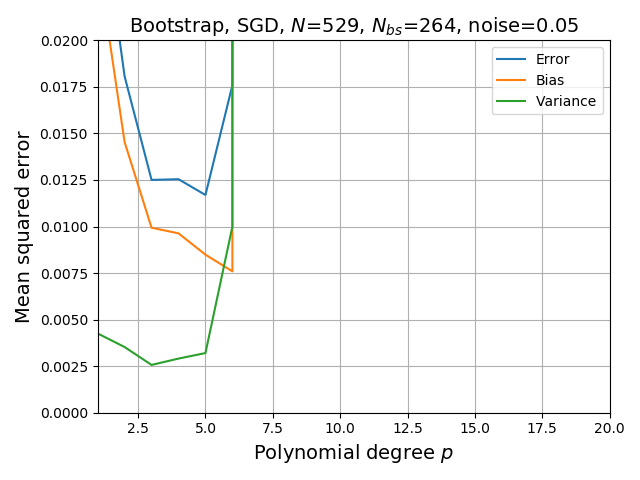
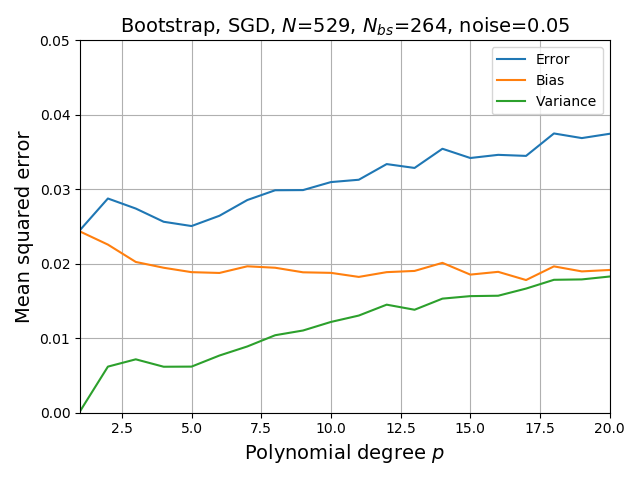
fixed learning rate somewhat

diff --git a/src/sgd.py b/src/sgd.py
@@ -1,11 +1,11 @@
 import numpy as np
 from numba import njit
-#from numba.experimental import jitclass
 import functions as fun
+
 
 #@fun.timeit
 @njit
-def gradient_descent_linreg(X, y, n_epochs, N_mb, m, beta, etas):#, seed):
+def gradient_descent_linreg(X, y, n_epochs, N_mb, m, theta, etas, lmb=0.0):#, seed):
     """
     An attempt to speed up the gradient descent using jit, as my first implementation is ~4 (or more depending on size)
     orders of magnitude slower than SGDRegressor.
@@ -20,15 +20,17 @@ def gradient_descent_linreg(X, y, n_epochs, N_mb, m, beta, etas):#, seed):
             xi = X[i_rand*m:i_rand*m + m]
             yi = y[i_rand*m:i_rand*m + m]
 
-            gradients = 2 * xi.T @ ((xi @ beta) - yi)
+#            gradients = 2 * xi.T @ ((xi @ theta) - yi)
+            gradients = 2 * (xi.T @ ((xi @ theta) - yi) + lmb*theta)  # Ridge, lmb=0 yields OLS
+
             eta = etas[j]
-            beta = beta - eta * gradients
+            theta = theta - eta * gradients
             j += 1
+        X, y = fun.shuffle_data(X, y)  # or put in GD-func?
 
-    return beta
+    return theta
 
 
-#@jitclass
 class LinRegSGD:
     def __init__(self, n_epochs, n_minibatch, regularization=None, eta0=0.1, learning_rate='constant'):
         self._n_epochs = n_epochs
@@ -38,11 +40,11 @@ class LinRegSGD:
         self._learning_rate = learning_rate
 
         self._lmb = None
-        self._t0 = 10#None
-        self._t1 = 0.1#None
+        self._t0 = 1.0#None
+        self._t1 = 10.0#None
         self._seed = None
 
-        self.beta = None
+        self.theta = None
 
     def fit(self, X, y):
         """
@@ -54,7 +56,7 @@ class LinRegSGD:
         N_mb = self._n_minibatch
         m = int(N/N_mb)  # number of elements in each minibatch
 
-        beta = np.random.randn(p)#, 1)  # beta here is (p, 1), while in OLS its (p,) WHYYYYYYYYYYYYYYYYYYYYY
+        theta = np.random.randn(p)#, 1)  # beta here is (p, 1), while in OLS its (p,) WHYYYYYYYYYYYYYYYYYYYYY
         # TODO: FIND UOT WHY
 
         # Try to speeeeeeeed up with jit
@@ -70,7 +72,7 @@ class LinRegSGD:
             etas = etas.ravel()
 
         # Gradient descent
-        beta = gradient_descent_linreg(X, y, self._n_epochs, N_mb, m, beta, etas)
+        theta = gradient_descent_linreg(X, y, self._n_epochs, N_mb, m, theta, etas)
 
         '''
         for epoch in range(self._n_epochs):
@@ -85,12 +87,10 @@ class LinRegSGD:
 
                 beta = beta - eta * gradients
         '''
-        self.beta = beta
+        self.theta = theta
 
     def predict(self, X):
-#        print(X.shape)
-        ytilde = X @ self.beta
-#        print(ytilde.shape, self.beta.shape)
+        ytilde = X @ self.theta
         return ytilde
 
     def set_lambda(self, lmb):

diff --git a/src/task_a.py b/src/task_a.py
@@ -18,7 +18,7 @@ fig_path = '../figures/'
 data_path = '../datafiles/'
 write_path = '../datafiles/'
 
-p = 20  # degree of polynomial for the task
+p = 30  # degree of polynomial for the task
 scale = [True, False]  # first index is whether to subtract mean, second is to scale by std
 
 test_size = 0.2
@@ -32,16 +32,16 @@ reg_str = 'SGD_SKL'
 
 # Creating data set for the Franke function tasks
 seed = 4155
-n_franke = 32  # 529 points
+n_franke = 23  # 529 points
 N = n_franke**2  # Total number of samples n*2
 noise = 0.05  # noise level
 
 # Bootstrap and CV variables
-N_bootstraps = 1#int(N / 2)  # number of resamples (ex. N/2, N/4)
+N_bootstraps = 100#int(N / 2)  # number of resamples (ex. N/2, N/4)
 K = 5
 
 # Stochastic gradient descent parameters
-N_epochs = 500  # Number of epochs in SGD
+N_epochs = 50  # Number of epochs in SGD
 N_minibatch = 10  # Number of mini-batches
 eta0 = 0.1  # Start training rate
 learning_rate = 'meow'  # constant
@@ -176,8 +176,8 @@ def run_regression(X, z, reg_string, polydegree, lambdas, N_bs, K, test_size, sc
             elif reg_string == 'Lasso':
                 reg_obj = skl.Lasso(alpha=lmb, max_iter=max_iter, precompute=True, warm_start=True)
             elif reg_string == 'SGD_SKL':
-#                reg_obj = SGDRegressor(max_iter=N_epochs, penalty=None, eta0=0.1)  # , learning_rate='constant')
-                reg_obj = SGDRegressor(max_iter=N_epochs, penalty=None, eta0=0.1, learning_rate='constant')
+                reg_obj = SGDRegressor(max_iter=N_epochs, penalty=None, eta0=0.1)  # , learning_rate='constant')
+#                reg_obj = SGDRegressor(max_iter=N_epochs, penalty=None, eta0=0.1, learning_rate='constant')
 
 
             # Bootstrap
@@ -264,8 +264,9 @@ cv_error_train_opt, cv_error_test_opt, cv_lmb_opt = variables[11:14]
 bs_min, bs_best, cv_min, cv_best = variables[14:18]
 
 # Bootstrap plots
-xlim = [1, 20]
-ylim = [0.0, 0.02]
+xlim = [1, 30]
+#ylim = [0.0, 0.02]
+ylim = [0.0, 0.05]
 fun.plot_MSE_train_test(polydegree, bs_error_train_opt[:, 0], bs_error_test_opt[:, 0],
                         '%s, $N$=%d, $N_{bs}$=%d, noise=%.2f' % (reg_str, N, N_bootstraps, noise),
                         'train_test_%s' % save_bs, fig_path, run_mode,

diff --git a/src/functions.py b/src/functions.py
@@ -5,6 +5,7 @@ from matplotlib import cm
 from matplotlib.ticker import LinearLocator, FormatStrFormatter
 from imageio import imread
 import time
+from numba import njit
 
 
 ###########################################################
@@ -93,6 +94,15 @@ def split_data(X, y, test_size=0.2):
     y_test = (y[i_split:]).copy()
 
     return X_train, X_test, y_train, y_test
+
+
+@njit
+def shuffle_data(X, y):
+    N = len(y)
+    index = np.arange(N)
+    X = (X[index]).copy()
+    y = (y[index]).copy()
+    return X, y
 
 
 def scale_X(X, scale=None):

diff --git a/src/unit_test.py b/src/unit_test.py
@@ -32,7 +32,7 @@ def test_SGD():
     sgdreg_own.fit(X, y.ravel())
     te_own = time.time()
     print("LinRegSGD")
-    print(sgdreg_own.beta)
+    print(sgdreg_own.theta)
 
     t_skl = te_skl - ts_skl
     t_own = te_own - ts_own

diff --git a/src/neural_network.py b/src/neural_network.py
@@ -1,8 +1,13 @@
 import numpy as np
 
+
 class NeuralNetwork:
     def __init__(self):
         pass
+
+    def add_layer(self):
+        pass
+
 
 # From lecture notes week 41, slide 21
 class NeuralNetwork:
